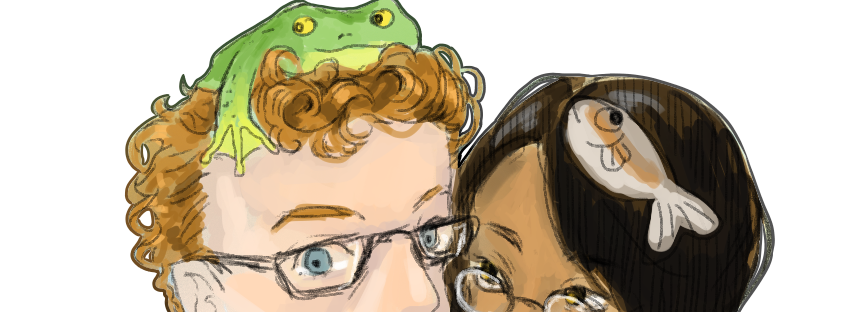
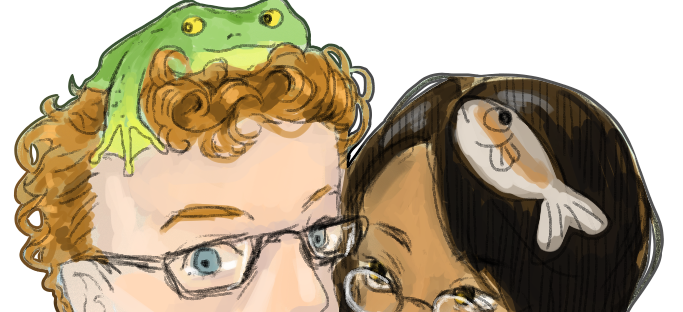
deploy: fa3661da1ad84489324baf13bb16a17879ad74d6

diff --git a/assets/css/main.css b/assets/css/main.css
@@ -1,1 +1,1 @@
-body{margin:0;background-color:#f3cb6b}.p-header{max-height:200px;width:100%;border-bottom:1px solid #000;overflow:hidden}.p-header-content{display:block;margin:0 auto}.p-banner{max-height:200px;position:absolute;top:0;left:0;z-index:99}.p-banner-anchor .p-banner.open{opacity:0}.p-banner-anchor .p-banner.closed{opacity:1}.p-header-banner{position:relative;height:200px;width:45vw}.p-banner-anchor:hover .p-banner{-webkit-filter:drop-shadow(5px 5px 5px #222);filter:drop-shadow(5px 5px 5px #222);transition:all ease-in-out .3s}.p-banner-anchor:hover .p-banner.open{opacity:1}.p-header-title{display:flex;align-items:center}.p-title{font-size:4em;margin:0;padding:0;color:#228b22}img.p-post-thumb{flex-shrink:0;object-fit:cover;min-width:100%;height:100%}div.p-post-thumb{position:relative;overflow:hidden;display:flex;justify-content:center;align-items:center;width:100%;height:100%}.p-post-thumb-text{position:absolute;bottom:10%;left:5%;padding:5px;border-radius:3px}.p-post-title{font-size:2em;color:#fff8dc;margin:0}.p-post-date{font-size:1em;color:#fff8dc;margin:0}.p-post-anchor{text-decoration:none;color:#fff8dc}.p-post-thumb-text{background:linear-gradient(0deg, rgba(0, 0, 0, 0.5), rgba(0, 0, 0, 0.5)) no-repeat right bottom/0 var(--bg-h);transition:background-size .5s;--bg-h: 100%}.p-post-anchor:where(:hover,:focus-visible) .p-post-thumb-text{background-size:100% var(--bg-h);background-position-x:left}.container{display:flex;align-items:left;justify-content:left;max-width:1100px;margin:auto}.content{max-width:1100px;margin:auto}.grid-container{display:grid;grid-template-columns:repeat(3, minmax(0, 1fr));grid-template-rows:300px 300px 300px;column-gap:10px;row-gap:10px}.grid-main-item{grid-column:1/3;grid-row:1/3}.grid-item{width:100%;min-width:300px;background-color:#dfdfdf;border-radius:3px}@media(max-width: 1000px){.grid-container{grid-template-columns:auto;grid-template-rows:repeat(8, 300px)}.grid-main-item{grid-column:1/2;grid-row:1/2;min-width:300px}}.pagination{display:flex;justify-content:center;margin:auto;padding-top:20px}.pagination a{color:#000;float:left;padding:8px 16px;text-decoration:none;border:1px solid #ddd}.pagination span{color:#000;float:left;padding:8px 16px;text-decoration:none;border:1px solid #ddd}.pagination a.active{background-color:#4caf50;color:#fff;border:1px solid #4caf50}.pagination a:hover:not(.active){background-color:#ddd}.pagination a:first-child{border-top-left-radius:5px;border-bottom-left-radius:5px}.pagination a:last-child{border-top-right-radius:5px;border-bottom-right-radius:5px}.footer-container{display:grid;grid-template-columns:auto auto;grid-template-rows:auto}.footer-left{grid-column:1/2;grid-row:1/2;text-align:left}.footer-right{grid-column:2/3;grid-row:1/2;text-align:right}.scale-img{width:100%;max-width:500px;height:auto}/*# sourceMappingURL=main.css.map */
+body{margin:0;background-color:#f3cb6b}.p-header{height:200px;width:100%;border-bottom:1px solid #000;overflow:hidden}.p-banner{height:100%}.p-banner.closed{position:relative;top:0;left:0}.p-banner.open{position:absolute;top:0;left:0}.p-header-banner-anchor{height:100%;display:flex}.p-header-banner-anchor .p-banner.open{opacity:0}.p-header-banner-anchor .p-banner.closed{opacity:1}.p-header-banner{position:relative;top:0;left:0}.p-header-banner-anchor:hover .p-banner{-webkit-filter:drop-shadow(5px 5px 5px #222);filter:drop-shadow(5px 5px 5px #222);transition:all ease-in-out .3s}.p-header-banner-anchor:hover .p-banner.open{opacity:1}.p-header-title{display:flex;align-items:center;height:100%}.p-title{font-size:4em;margin:0;padding:0;color:#228b22}img.p-post-thumb{flex-shrink:0;object-fit:cover;min-width:100%;height:100%}div.p-post-thumb{position:relative;overflow:hidden;display:flex;justify-content:center;align-items:center;width:100%;height:100%}.p-post-thumb-text{position:absolute;bottom:10%;left:5%;padding:5px;border-radius:3px}.p-post-title{font-size:2em;color:#fff8dc;margin:0}.p-post-date{font-size:1em;color:#fff8dc;margin:0}.p-post-anchor{text-decoration:none;color:#fff8dc}.p-post-thumb-text{background:linear-gradient(0deg, rgba(0, 0, 0, 0.5), rgba(0, 0, 0, 0.5)) no-repeat right bottom/0 var(--bg-h);transition:background-size .5s;--bg-h: 100%}.p-post-anchor:where(:hover,:focus-visible) .p-post-thumb-text{background-size:100% var(--bg-h);background-position-x:left}.container{display:flex;align-items:left;justify-content:left;max-width:1100px;margin:auto}.content{max-width:1100px;margin:auto}.grid-container{display:grid;grid-template-columns:repeat(3, minmax(0, 1fr));grid-template-rows:300px 300px 300px;column-gap:10px;row-gap:10px}.grid-main-item{grid-column:1/3;grid-row:1/3}.grid-item{width:100%;min-width:300px;background-color:#dfdfdf;border-radius:3px}@media(max-width: 1000px){.grid-container{grid-template-columns:auto;grid-template-rows:repeat(8, 300px)}.grid-main-item{grid-column:1/2;grid-row:1/2;min-width:300px}.p-header{height:unset;flex-direction:column-reverse;align-items:center}.p-banner{width:100%}.p-title{text-align:center}.p-header-banner{width:100%}}.pagination{display:flex;justify-content:center;margin:auto;padding-top:20px}.pagination a{color:#000;float:left;padding:8px 16px;text-decoration:none;border:1px solid #ddd}.pagination span{color:#000;float:left;padding:8px 16px;text-decoration:none;border:1px solid #ddd}.pagination a.active{background-color:#4caf50;color:#fff;border:1px solid #4caf50}.pagination a:hover:not(.active){background-color:#ddd}.pagination a:first-child{border-top-left-radius:5px;border-bottom-left-radius:5px}.pagination a:last-child{border-top-right-radius:5px;border-bottom-right-radius:5px}.footer-container{display:grid;grid-template-columns:auto auto;grid-template-rows:auto}.footer-left{grid-column:1/2;grid-row:1/2;text-align:left}.footer-right{grid-column:2/3;grid-row:1/2;text-align:right}/*# sourceMappingURL=main.css.map */

diff --git a/privacy.html b/privacy.html
@@ -21,15 +21,15 @@
   />
   <meta property="og:site_name" content="Mit Meehan ans Meer ran" />
   <meta property="og:type" content="article" />
-  <meta property="article:published_time" content="2024-02-15T16:50:54+00:00" />
+  <meta property="article:published_time" content="2024-02-16T19:49:41+00:00" />
   <meta name="twitter:card" content="summary" />
   <meta property="twitter:title" content="Privacy" />
   <script type="application/ld+json">
     {
       "@context": "https://schema.org",
       "@type": "BlogPosting",
-      "dateModified": "2024-02-15T16:50:54+00:00",
-      "datePublished": "2024-02-15T16:50:54+00:00",
+      "dateModified": "2024-02-16T19:49:41+00:00",
+      "datePublished": "2024-02-16T19:49:41+00:00",
       "description": "Datenschutzerklärung 1. Datenschutz auf einen Blick Allgemeine Hinweise Die folgenden Hinweise geben einen einfachen Überblick darüber, was mit Ihren personenbezogenen Daten passiert, wenn Sie diese Website besuchen. Personenbezogene Daten sind alle Daten, mit denen Sie persönlich identifiziert werden können. Ausführliche Informationen zum Thema Datenschutz entnehmen Sie unserer unter diesem Text aufgeführten Datenschutzerklärung.",
       "headline": "Privacy",
       "mainEntityOfPage": {
@@ -46,7 +46,7 @@
 </head>
 <body class="backdrop">
   <div class="p-header container">
-    <a href="/meerhan/" class="p-banner-anchor">
+    <a href="/meerhan/" class="p-header-banner-anchor">
       <div class="p-header-banner">
         <img
           src="/meerhan/assets/img/banner_a.png"
@@ -55,7 +55,7 @@
         />
         <img
           src="/meerhan/assets/img/banner_open.png"
-          class="p-banner on-top open"
+          class="p-banner open"
           alt="Fish Banner with open mouth"
         />
       </div>

diff --git a/imprint.html b/imprint.html
@@ -15,15 +15,15 @@
   />
   <meta property="og:site_name" content="Mit Meehan ans Meer ran" />
   <meta property="og:type" content="article" />
-  <meta property="article:published_time" content="2024-02-15T16:50:54+00:00" />
+  <meta property="article:published_time" content="2024-02-16T19:49:41+00:00" />
   <meta name="twitter:card" content="summary" />
   <meta property="twitter:title" content="Impressum" />
   <script type="application/ld+json">
     {
       "@context": "https://schema.org",
       "@type": "BlogPosting",
-      "dateModified": "2024-02-15T16:50:54+00:00",
-      "datePublished": "2024-02-15T16:50:54+00:00",
+      "dateModified": "2024-02-16T19:49:41+00:00",
+      "datePublished": "2024-02-16T19:49:41+00:00",
       "description": "Impressum",
       "headline": "Impressum",
       "mainEntityOfPage": {
@@ -40,7 +40,7 @@
 </head>
 <body class="backdrop">
   <div class="p-header container">
-    <a href="/meerhan/" class="p-banner-anchor">
+    <a href="/meerhan/" class="p-header-banner-anchor">
       <div class="p-header-banner">
         <img
           src="/meerhan/assets/img/banner_a.png"
@@ -49,7 +49,7 @@
         />
         <img
           src="/meerhan/assets/img/banner_open.png"
-          class="p-banner on-top open"
+          class="p-banner open"
           alt="Fish Banner with open mouth"
         />
       </div>

diff --git a/2024/02/14/babbypost.html b/2024/02/14/babbypost.html
@@ -49,7 +49,7 @@
 </head>
 <body class="backdrop">
   <div class="p-header container">
-    <a href="/meerhan/" class="p-banner-anchor">
+    <a href="/meerhan/" class="p-header-banner-anchor">
       <div class="p-header-banner">
         <img
           src="/meerhan/assets/img/banner_a.png"
@@ -58,7 +58,7 @@
         />
         <img
           src="/meerhan/assets/img/banner_open.png"
-          class="p-banner on-top open"
+          class="p-banner open"
           alt="Fish Banner with open mouth"
         />
       </div>

diff --git a/2024/02/15/technical_fun.html b/2024/02/15/technical_fun.html
@@ -49,7 +49,7 @@
 </head>
 <body class="backdrop">
   <div class="p-header container">
-    <a href="/meerhan/" class="p-banner-anchor">
+    <a href="/meerhan/" class="p-header-banner-anchor">
       <div class="p-header-banner">
         <img
           src="/meerhan/assets/img/banner_a.png"
@@ -58,7 +58,7 @@
         />
         <img
           src="/meerhan/assets/img/banner_open.png"
-          class="p-banner on-top open"
+          class="p-banner open"
           alt="Fish Banner with open mouth"
         />
       </div>

diff --git a/404.html b/404.html
@@ -42,7 +42,7 @@
 </head>
 <body class="backdrop">
   <div class="p-header container">
-    <a href="/meerhan/" class="p-banner-anchor">
+    <a href="/meerhan/" class="p-header-banner-anchor">
       <div class="p-header-banner">
         <img
           src="/meerhan/assets/img/banner_a.png"
@@ -51,7 +51,7 @@
         />
         <img
           src="/meerhan/assets/img/banner_open.png"
-          class="p-banner on-top open"
+          class="p-banner open"
           alt="Fish Banner with open mouth"
         />
       </div>

diff --git a/index.html b/index.html
@@ -37,7 +37,7 @@
 </head>
 <body class="backdrop">
   <div class="p-header container">
-    <a href="/meerhan/" class="p-banner-anchor">
+    <a href="/meerhan/" class="p-header-banner-anchor">
       <div class="p-header-banner">
         <img
           src="/meerhan/assets/img/banner_a.png"
@@ -46,7 +46,7 @@
         />
         <img
           src="/meerhan/assets/img/banner_open.png"
-          class="p-banner on-top open"
+          class="p-banner open"
           alt="Fish Banner with open mouth"
         />
       </div>
